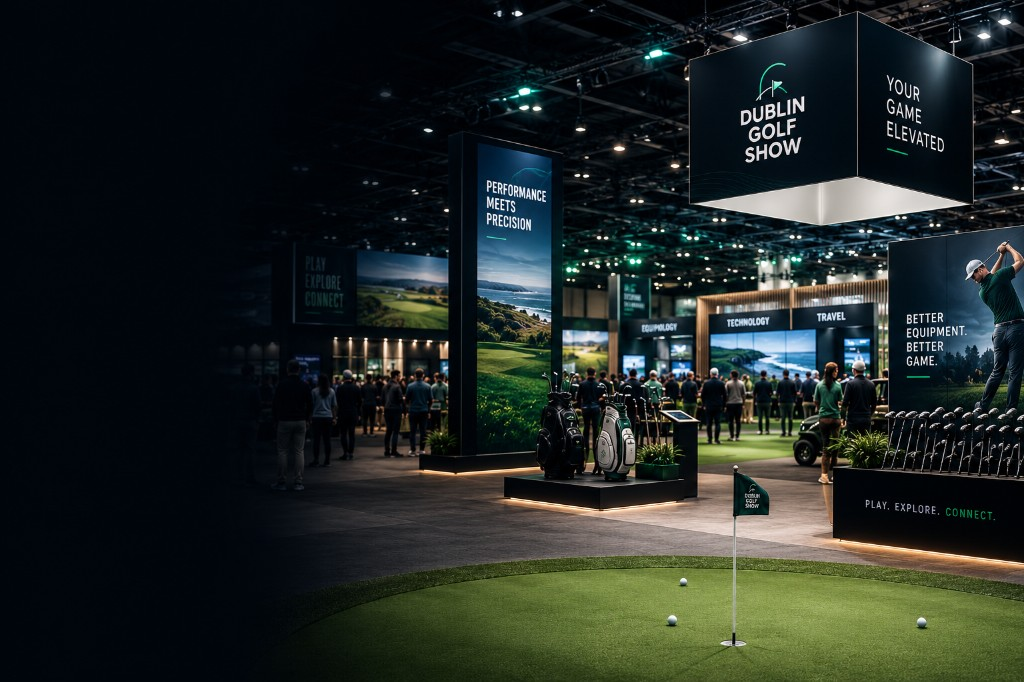
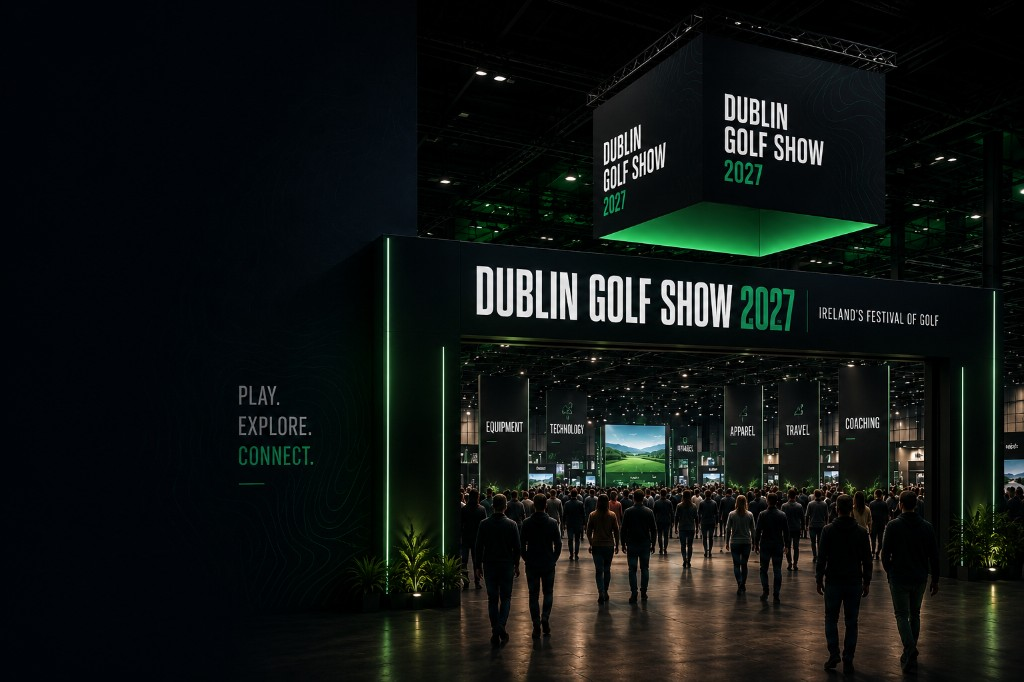
Refine the hero as the defining entrance visual with a shorter viewport and cleaner overlays.

diff --git a/components/sections/Hero.tsx b/components/sections/Hero.tsx
@@ -2,7 +2,6 @@
 
 import { useEffect, useRef } from "react";
 import Image from "next/image";
-import { Contour } from "@/components/ui/Contour";
 import { Container } from "@/components/ui/Container";
 import { RegisterInterestButton } from "@/components/interest/RegisterInterestButton";
 import { PartnerWithUsButton } from "@/components/partner/PartnerWithUsButton";
@@ -17,7 +16,8 @@ export function Hero() {
     const onScroll = () => {
       const y = window.scrollY;
       if (y > window.innerHeight) return;
-      layer.style.transform = `translate3d(0, ${y * 0.28}px, 0) scale(1.08)`;
+      // Light parallax — keep scale modest so the cube and portal stay in frame
+      layer.style.transform = `translate3d(0, ${y * 0.22}px, 0) scale(1.03)`;
     };
 
     onScroll();
@@ -28,31 +28,26 @@ export function Hero() {
   return (
     <section
       id="top"
-      className="relative flex min-h-[78svh] items-end overflow-hidden pb-16 pt-28 md:min-h-[78svh] md:items-center md:pb-20 md:pt-24"
+      className="relative flex min-h-[80svh] items-end overflow-hidden pb-14 pt-28 md:min-h-[80svh] md:items-center md:pb-16 md:pt-28"
     >
-      <div ref={layerRef} className="absolute inset-0 scale-105 will-change-transform">
+      <div ref={layerRef} className="absolute inset-0 will-change-transform">
         <Image
           src="/images/hero-hall.jpg"
-          alt="Cinematic view of the Dublin Golf Show exhibition hall at RDS Simmonscourt"
+          alt="Visitors approaching the monumental Dublin Golf Show 2027 entrance into the exhibition"
           fill
           priority
           fetchPriority="high"
           quality={95}
           sizes="100vw"
-          className="object-cover object-[68%_center] brightness-[0.97] contrast-[1.04] saturate-[0.95] md:object-[72%_center]"
+          // Frame cube (top-right), portal and crowd without heavy lateral crop
+          className="object-cover object-[58%_32%] md:object-[56%_30%] lg:object-[54%_28%]"
         />
       </div>
 
-      {/* Left ~40% content column; photography remains dominant on the right */}
-      <div className="absolute inset-0 bg-[linear-gradient(90deg,rgba(10,17,28,0.86)_0%,rgba(10,17,28,0.58)_34%,rgba(10,17,28,0.22)_52%,rgba(10,17,28,0.06)_72%,transparent_100%)]" />
-      {/* Soft bottom fade so the next section can peek through */}
-      <div className="absolute inset-0 bg-[linear-gradient(180deg,rgba(10,17,28,0.28)_0%,transparent_24%,transparent_68%,rgba(10,17,28,0.72)_100%)]" />
-      <div className="absolute inset-0 bg-[radial-gradient(ellipse_at_center,transparent_50%,rgba(10,17,28,0.28)_100%)]" />
-      <div className="absolute inset-0" aria-hidden>
-        <Contour pattern="ridge" opacity={0.06} />
-      </div>
+      {/* Rely on the image’s built-in left fade; only a light bottom ease into Event Overview */}
+      <div className="absolute inset-0 bg-[linear-gradient(180deg,transparent_0%,transparent_72%,rgba(10,17,28,0.45)_100%)]" />
 
-      <Container className="relative z-10 w-full md:-translate-y-9 lg:-translate-y-10">
+      <Container className="relative z-10 w-full md:-translate-y-3 lg:-translate-y-4">
         <div className="flex max-w-xl flex-col items-start md:max-w-3xl lg:max-w-[52rem]">
           <h1 className="font-display text-[2.85rem] font-bold uppercase leading-[0.9] tracking-tight text-white sm:text-[3.5rem] md:whitespace-nowrap md:text-[4.4rem] lg:text-[5.35rem]">
             Dublin Golf Show{" "}
